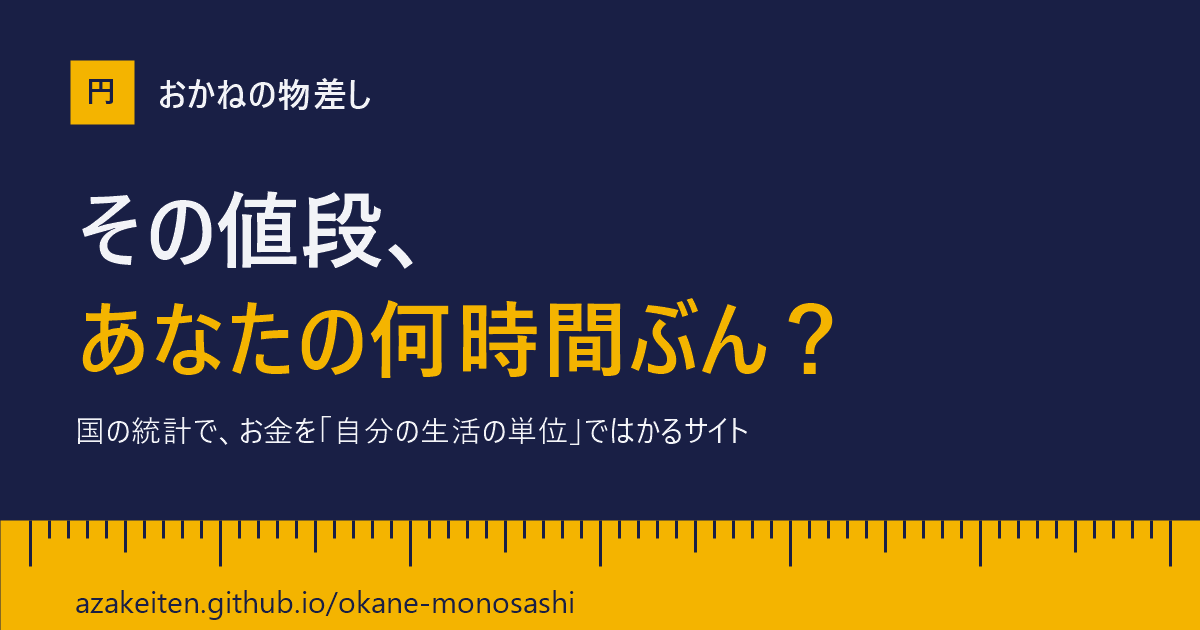
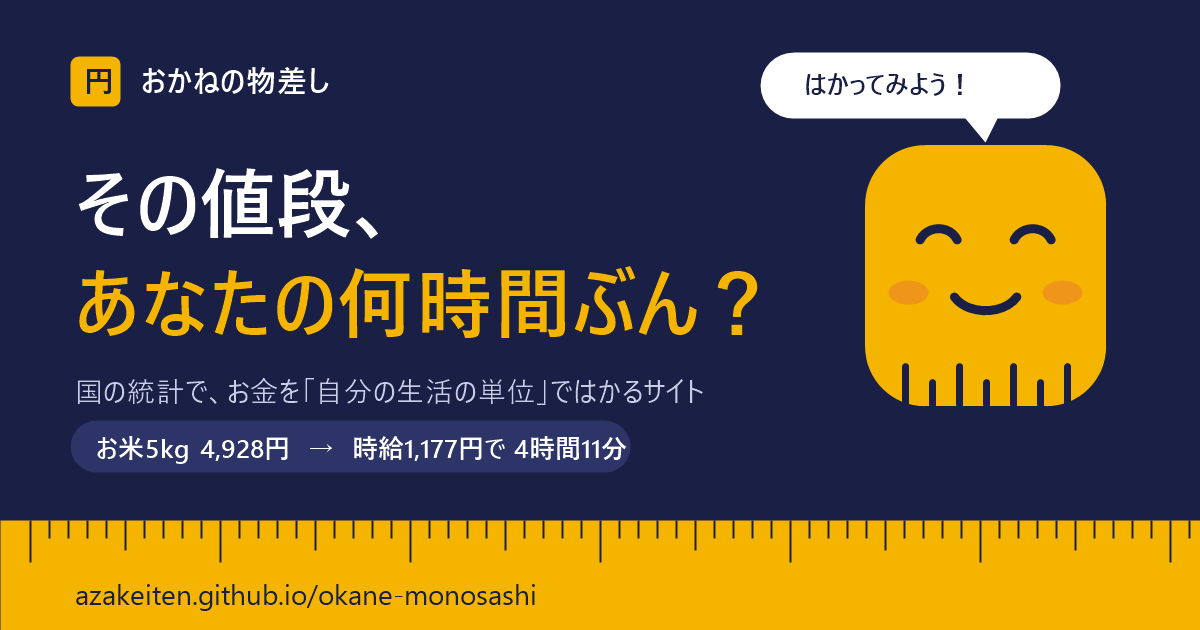
v37: しくみクイズを20問に（歴史・国の予算）、シェア画像にものさしくん

diff --git a/okane.bundle.js b/okane.bundle.js
@@ -2307,6 +2307,12 @@ window.CPI_MONTHLY = { from: "2024-09", yoy: [2.5,2.3,2.9,3.7,4.0,3.6,3.5,3.6,3.
     { q: "物価が毎年2%上がると、値段が2倍になるのは約何年後？", o: ["約36年後", "約72年後", "約10年後"], why: "72の法則で、72÷2＝36年。2%は日本銀行が目標にしている上がり方です。", ch: "save" },
     { q: "最低賃金は、どこごとに決まっている？", o: ["都道府県ごと", "市区町村ごと", "全国で1つ"], why: `都道府県ごとに毎年決まります。2026年度は${yen(D.MINWAGE_2026.min)}円から${yen(D.MINWAGE_2026.max)}円まで差があります。`, ch: "map" },
     { q: "使ったお金のうち、食べ物に使った割合を何という？", o: ["エンゲル係数", "消費者物価指数", "相関係数"], why: "食べ物は節約しにくいので、物価が上がると高くなりやすい数字です。", ch: "kakei" },
+    { q: "お金の単位「円」が生まれたのは、いつ？", o: ["明治時代（1871年）", "江戸時代（1601年）", "昭和時代（1950年）"], why: "1871年の新貨条例で「円・銭・厘」が決まりました。江戸時代は小判などの「両」が使われていました。", ch: "money" },
+    { q: "お札（日本銀行券）を発行しているのは？", o: ["日本銀行", "造幣局", "銀行ならどこでも"], why: "お札は日本銀行が発行し、国立印刷局が印刷します。硬貨は国が発行し、造幣局が作っています。", ch: "money" },
+    { q: "「貨」「財」「買」など、お金に関係する漢字に入っている部分は？", o: ["貝", "金", "米"], why: "大昔、貝がらがお金の代わりに使われていたなごりです。", ch: "money" },
+    { q: `国に入ってくるお金（${D.BUDGET ? D.BUDGET.label : "令和8年度予算"}）のうち、借金（公債金）はどれくらい？`, o: ["約4分の1", "約10分の1", "約半分"], why: "1万円にちぢめると2,419円が借金です。税金だけでは足りない分を、国債でおぎなっています。", ch: "big" },
+    { q: "国から都道府県や市町村に配る「地方交付税」は、何のため？", o: ["どこに住んでも同じくらいのサービスを受けられるように", "国の借金を返すため", "外国を助けるため"], why: "税金が集まりやすい地域と、そうでない地域の差をならすためのお金です。", ch: "big" },
+    { q: "お店やさんで「売り上げ − 材料代」がマイナスになることを何という？", o: ["赤字", "黒字", "利息"], why: "もうけが出るのが黒字、材料代などのほうが多いのが赤字です。", ch: "time" },
   ];
 
   let mode = store.get("quizMode", "rise"), qs = [], qi = 0, res = [], best = store.get("quizBest", {});
@@ -2881,6 +2887,7 @@ window.CPI_MONTHLY = { from: "2024-09", yoy: [2.5,2.3,2.9,3.7,4.0,3.6,3.5,3.6,3.
   const box = $("newsRow"); if (!box) return;
   // 新しい順。d は「YYYY-MM-DD」
   const NEWS = [
+    { d: "2026-10-14", ic: "quiz", t: "しくみクイズが20問に", p: "お金の歴史や国の予算の問題がふえました。", go: "quiz" },
     { d: "2026-10-14", ic: "big", t: "国の1年のお金を1万円に", p: "使い道と、入ってくるお金を100マスで。約4分の1は借金です。", go: "big" },
     { d: "2026-10-14", ic: "sources", t: "さがす・もくじがパワーアップ", p: "ゲームや相談室、歴史も「さがす」で見つかります。もくじに体験のタグも。", go: "toc" },
     { d: "2026-10-14", ic: "agewage", t: "一生のお金すごろく", p: "学校にかかるお金と、65歳まではたらいてもらう給料をならべよう。", go: "agewage" },
@@ -2898,7 +2905,7 @@ window.CPI_MONTHLY = { from: "2024-09", yoy: [2.5,2.3,2.9,3.7,4.0,3.6,3.5,3.6,3.
   // 見たことのあるお知らせ（題名）を覚えておく。前の版の「最後に見た日付」も読みかえる
   const old = store.get("newsSeen", null);
   let seen = store.get("newsSeenIds", null);
-  const V33 = ["国の1年のお金を1万円に", "さがす・もくじがパワーアップ", "一生のお金すごろく", "お金の歴史", "よみあげボタン"]; // 日付だけで覚えていた版（v32）のあとに足したもの
+  const V33 = ["しくみクイズが20問に", "国の1年のお金を1万円に", "さがす・もくじがパワーアップ", "一生のお金すごろく", "お金の歴史", "よみあげボタン"]; // 日付だけで覚えていた版（v32）のあとに足したもの
   if (!seen && old) seen = NEWS.filter((n) => n.d <= old && !V33.includes(n.t)).map((n) => n.t);
   const visited = !!seen; seen = new Set(seen || []);
   const fresh = (n) => visited && !seen.has(n.t);

diff --git a/okane-quiz.js b/okane-quiz.js
@@ -71,6 +71,12 @@
     { q: "物価が毎年2%上がると、値段が2倍になるのは約何年後？", o: ["約36年後", "約72年後", "約10年後"], why: "72の法則で、72÷2＝36年。2%は日本銀行が目標にしている上がり方です。", ch: "save" },
     { q: "最低賃金は、どこごとに決まっている？", o: ["都道府県ごと", "市区町村ごと", "全国で1つ"], why: `都道府県ごとに毎年決まります。2026年度は${yen(D.MINWAGE_2026.min)}円から${yen(D.MINWAGE_2026.max)}円まで差があります。`, ch: "map" },
     { q: "使ったお金のうち、食べ物に使った割合を何という？", o: ["エンゲル係数", "消費者物価指数", "相関係数"], why: "食べ物は節約しにくいので、物価が上がると高くなりやすい数字です。", ch: "kakei" },
+    { q: "お金の単位「円」が生まれたのは、いつ？", o: ["明治時代（1871年）", "江戸時代（1601年）", "昭和時代（1950年）"], why: "1871年の新貨条例で「円・銭・厘」が決まりました。江戸時代は小判などの「両」が使われていました。", ch: "money" },
+    { q: "お札（日本銀行券）を発行しているのは？", o: ["日本銀行", "造幣局", "銀行ならどこでも"], why: "お札は日本銀行が発行し、国立印刷局が印刷します。硬貨は国が発行し、造幣局が作っています。", ch: "money" },
+    { q: "「貨」「財」「買」など、お金に関係する漢字に入っている部分は？", o: ["貝", "金", "米"], why: "大昔、貝がらがお金の代わりに使われていたなごりです。", ch: "money" },
+    { q: `国に入ってくるお金（${D.BUDGET ? D.BUDGET.label : "令和8年度予算"}）のうち、借金（公債金）はどれくらい？`, o: ["約4分の1", "約10分の1", "約半分"], why: "1万円にちぢめると2,419円が借金です。税金だけでは足りない分を、国債でおぎなっています。", ch: "big" },
+    { q: "国から都道府県や市町村に配る「地方交付税」は、何のため？", o: ["どこに住んでも同じくらいのサービスを受けられるように", "国の借金を返すため", "外国を助けるため"], why: "税金が集まりやすい地域と、そうでない地域の差をならすためのお金です。", ch: "big" },
+    { q: "お店やさんで「売り上げ − 材料代」がマイナスになることを何という？", o: ["赤字", "黒字", "利息"], why: "もうけが出るのが黒字、材料代などのほうが多いのが赤字です。", ch: "time" },
   ];
 
   let mode = store.get("quizMode", "rise"), qs = [], qi = 0, res = [], best = store.get("quizBest", {});

diff --git a/okane-news.js b/okane-news.js
@@ -4,6 +4,7 @@
   const box = $("newsRow"); if (!box) return;
   // 新しい順。d は「YYYY-MM-DD」
   const NEWS = [
+    { d: "2026-10-14", ic: "quiz", t: "しくみクイズが20問に", p: "お金の歴史や国の予算の問題がふえました。", go: "quiz" },
     { d: "2026-10-14", ic: "big", t: "国の1年のお金を1万円に", p: "使い道と、入ってくるお金を100マスで。約4分の1は借金です。", go: "big" },
     { d: "2026-10-14", ic: "sources", t: "さがす・もくじがパワーアップ", p: "ゲームや相談室、歴史も「さがす」で見つかります。もくじに体験のタグも。", go: "toc" },
     { d: "2026-10-14", ic: "agewage", t: "一生のお金すごろく", p: "学校にかかるお金と、65歳まではたらいてもらう給料をならべよう。", go: "agewage" },
@@ -21,7 +22,7 @@
   // 見たことのあるお知らせ（題名）を覚えておく。前の版の「最後に見た日付」も読みかえる
   const old = store.get("newsSeen", null);
   let seen = store.get("newsSeenIds", null);
-  const V33 = ["国の1年のお金を1万円に", "さがす・もくじがパワーアップ", "一生のお金すごろく", "お金の歴史", "よみあげボタン"]; // 日付だけで覚えていた版（v32）のあとに足したもの
+  const V33 = ["しくみクイズが20問に", "国の1年のお金を1万円に", "さがす・もくじがパワーアップ", "一生のお金すごろく", "お金の歴史", "よみあげボタン"]; // 日付だけで覚えていた版（v32）のあとに足したもの
   if (!seen && old) seen = NEWS.filter((n) => n.d <= old && !V33.includes(n.t)).map((n) => n.t);
   const visited = !!seen; seen = new Set(seen || []);
   const fresh = (n) => visited && !seen.has(n.t);

diff --git a/index.html b/index.html
@@ -8,7 +8,7 @@
 <meta property="og:description" content="その値段、あなたの何時間ぶん？ 公的統計で、お金を自分の生活の単位ではかるサイト。">
 <meta property="og:type" content="website">
 <meta property="og:url" content="https://azakeiten.github.io/okane-monosashi/">
-<meta property="og:image" content="https://azakeiten.github.io/okane-monosashi/icons/og.png">
+<meta property="og:image" content="https://azakeiten.github.io/okane-monosashi/icons/og.png?v=2">
 <meta property="og:image:width" content="1200">
 <meta property="og:image:height" content="630">
 <meta name="twitter:card" content="summary_large_image">
@@ -2359,6 +2359,6 @@ footer .wrap { display: flex; flex-wrap: wrap; justify-content: space-between; g
 <a class="to-top" href="#top" id="toTop" aria-label="いちばん上へもどる" hidden>↑<span>上へ</span></a>
 <footer><div class="wrap"><span>おかねの物差し ― 公的統計を、自分の生活の単位に。　<a href="guide.html">先生・おうちの人へ</a></span><span>最終更新：2026年10月14日</span></div></footer>
 
-<script src="okane.bundle.js?v=20261014134122"></script>
+<script src="okane.bundle.js?v=20261014135128"></script>
 </body>
 </html>

diff --git a/guide.html b/guide.html
@@ -7,7 +7,7 @@
 <meta name="description" content="「おかねの物差し」を授業や家庭で使うための案内。小学校・中学校・高校向けの45分の授業プラン、印刷のしかた、データの扱い。">
 <meta property="og:title" content="おかねの物差し 先生・おうちの人へ">
 <meta property="og:description" content="授業や家庭で使うための案内。45分の授業プラン4つつき。">
-<meta property="og:image" content="https://azakeiten.github.io/okane-monosashi/icons/og.png">
+<meta property="og:image" content="https://azakeiten.github.io/okane-monosashi/icons/og.png?v=2">
 <meta name="twitter:card" content="summary_large_image">
 <meta name="theme-color" content="#191f45">
 <link rel="icon" href="icons/icon-192.png">

diff --git a/sw.js b/sw.js
@@ -1,6 +1,6 @@
 // おかねの物差し：オフラインでも使えるようにする（GitHub版だけで動く）
 // VERSION は dev/build.sh が書きかえる
-const VERSION = "okane-20261014134122";
+const VERSION = "okane-20261014135128";
 const FILES = ["./", "index.html", "guide.html", "manifest.webmanifest", "icons/icon-192.png", "icons/icon-512.png", "okane.bundle.js"];
 self.addEventListener("install", (e) => { e.waitUntil(caches.open(VERSION).then((c) => c.addAll(FILES)).then(() => self.skipWaiting())); });
 self.addEventListener("activate", (e) => { e.waitUntil(caches.keys().then((ks) => Promise.all(ks.filter((k) => k !== VERSION).map((k) => caches.delete(k)))).then(() => self.clients.claim())); });
